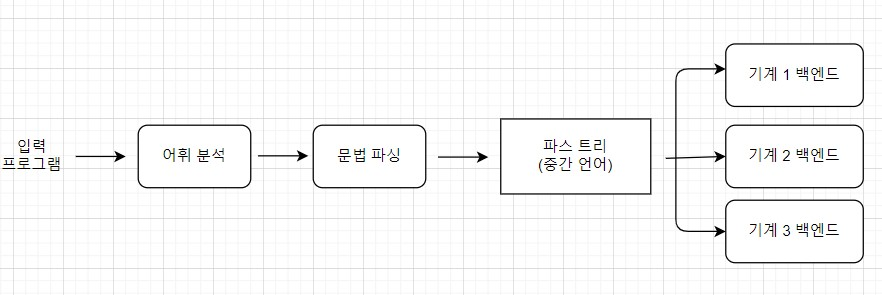
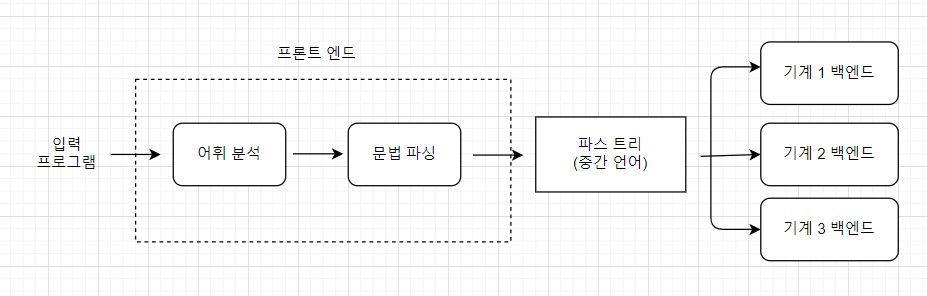
imgs

diff --git a/docs/review/book_review/the_secret_life_of_programs8.md b/docs/review/book_review/the_secret_life_of_programs8.md
@@ -250,13 +250,21 @@ statement 	: expression				{ $$ = $1; }
 
 **인터프리터 구조**
 
+![](https://github.com/terri1102/terri1102.github.io/blob/master/assets/images/review/interpreter.jpg?raw=true)
+
+프론트 엔드는 파스 트리를 만들고 파스 트리는 어떤 중간 언어로 표현된다. 백엔드는 이 언어를 실행할 대상 환경마다 하나씩 존재한다.
+
 
 
 ## :computer: 컴파일러
 
+컴파일러도 인터프리터와 비슷하지만 백엔드 실행 코드 대신 코드 생성기가 들어간다.
 
 
-## 최적화
+
+## :star2: 최적화
+
+**최적화기(optimizer)** : 대부분의 언어 도구에는 최적화기라는 추가 단계가 파스 트리와 코드 생성기 사이에 들어간다. 최적화기는 파스 트리를 분석하고 이 결과를 활용해 더 효율적인 코드를 생성해내도록 파스 트리를 변환한다.
 
 
 
